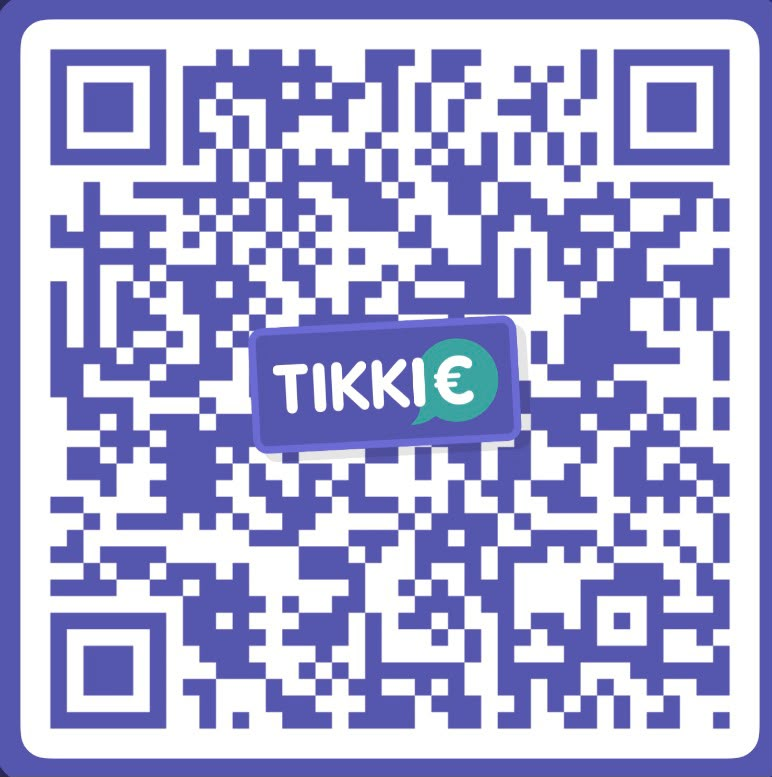
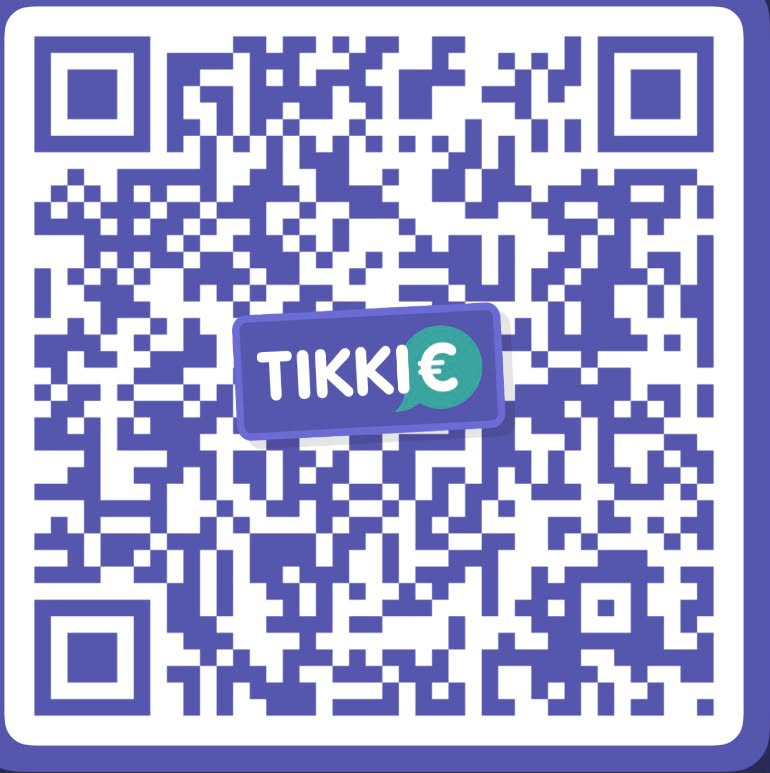
new qr codes

diff --git a/components/PaymentStep.tsx b/components/PaymentStep.tsx
@@ -12,22 +12,22 @@ const ticketConfig: Record<
   weekend: {
     label: "WEEKEND TICKET",
     price: 160,
-    qrSrc: "/weekend-tikkie.jpg",
+    qrSrc: "/weekend-tikkie.jpg?v=20260908",
   },
   friday: {
     label: "VRIJDAG TICKET",
     price: 85,
-    qrSrc: "/dag-tikkie.jpg",
+    qrSrc: "/dag-tikkie.jpg?v=20260908",
   },
   saturday: {
     label: "ZATERDAG TICKET",
     price: 85,
-    qrSrc: "/dag-tikkie.jpg",
+    qrSrc: "/dag-tikkie.jpg?v=20260908",
   },
   sunday: {
     label: "ZONDAG TICKET",
     price: 85,
-    qrSrc: "/dag-tikkie.jpg",
+    qrSrc: "/dag-tikkie.jpg?v=20260908",
   },
 };
 
